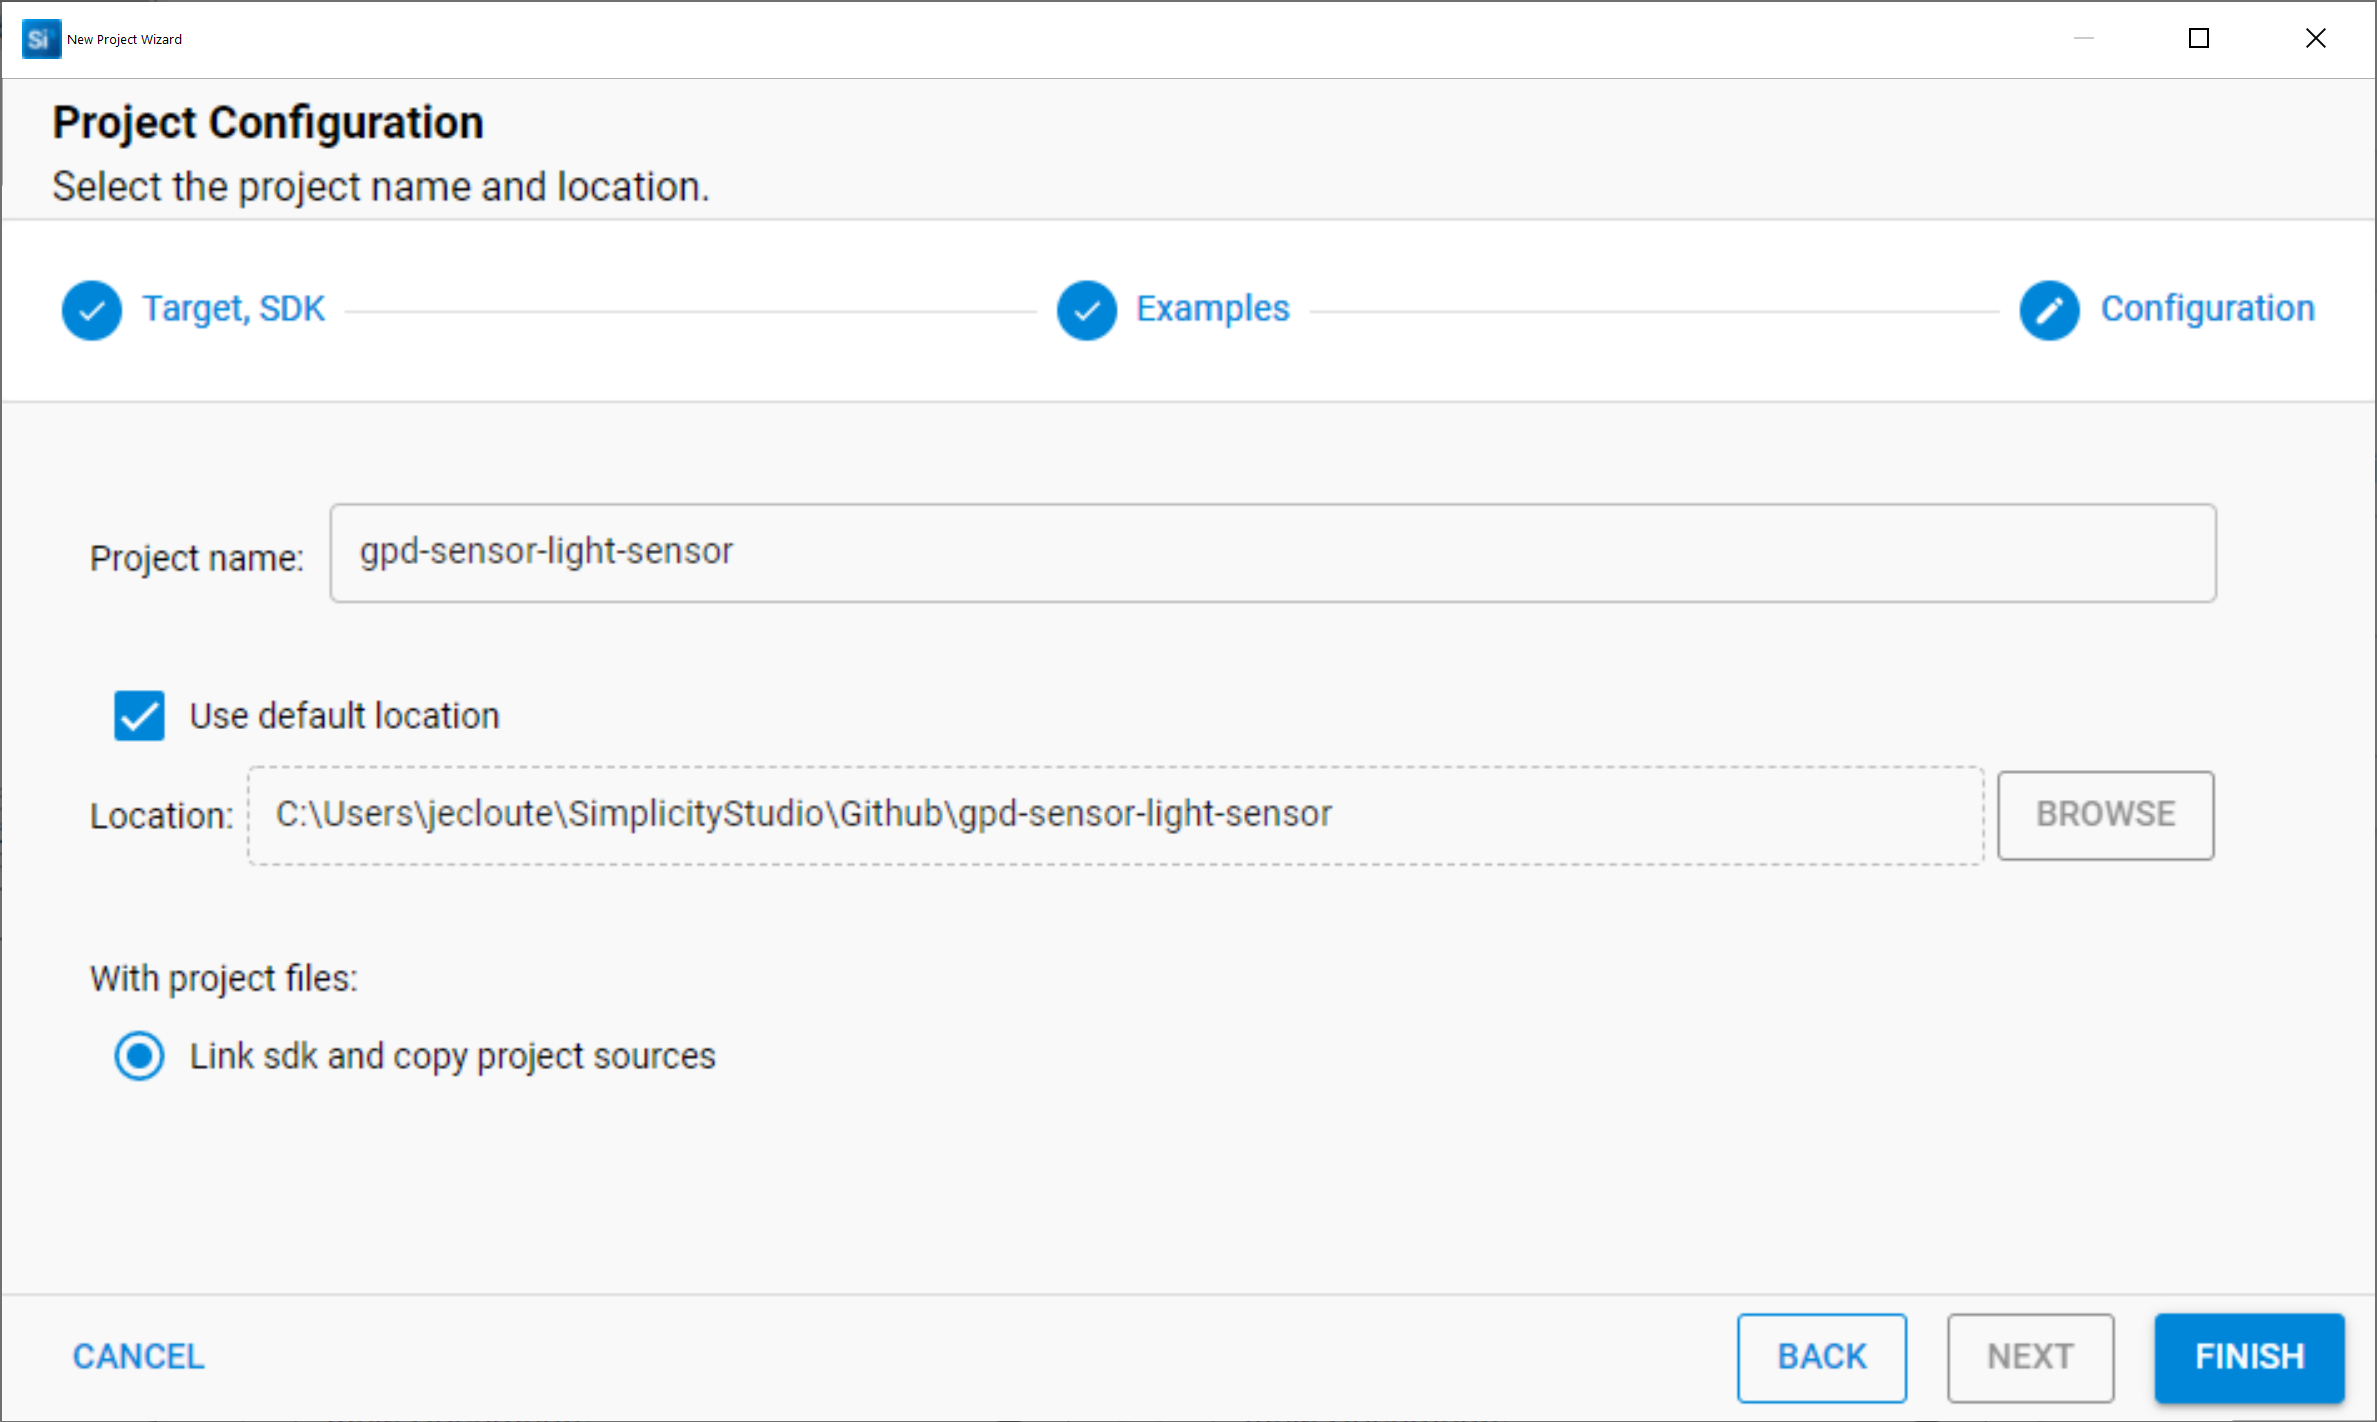
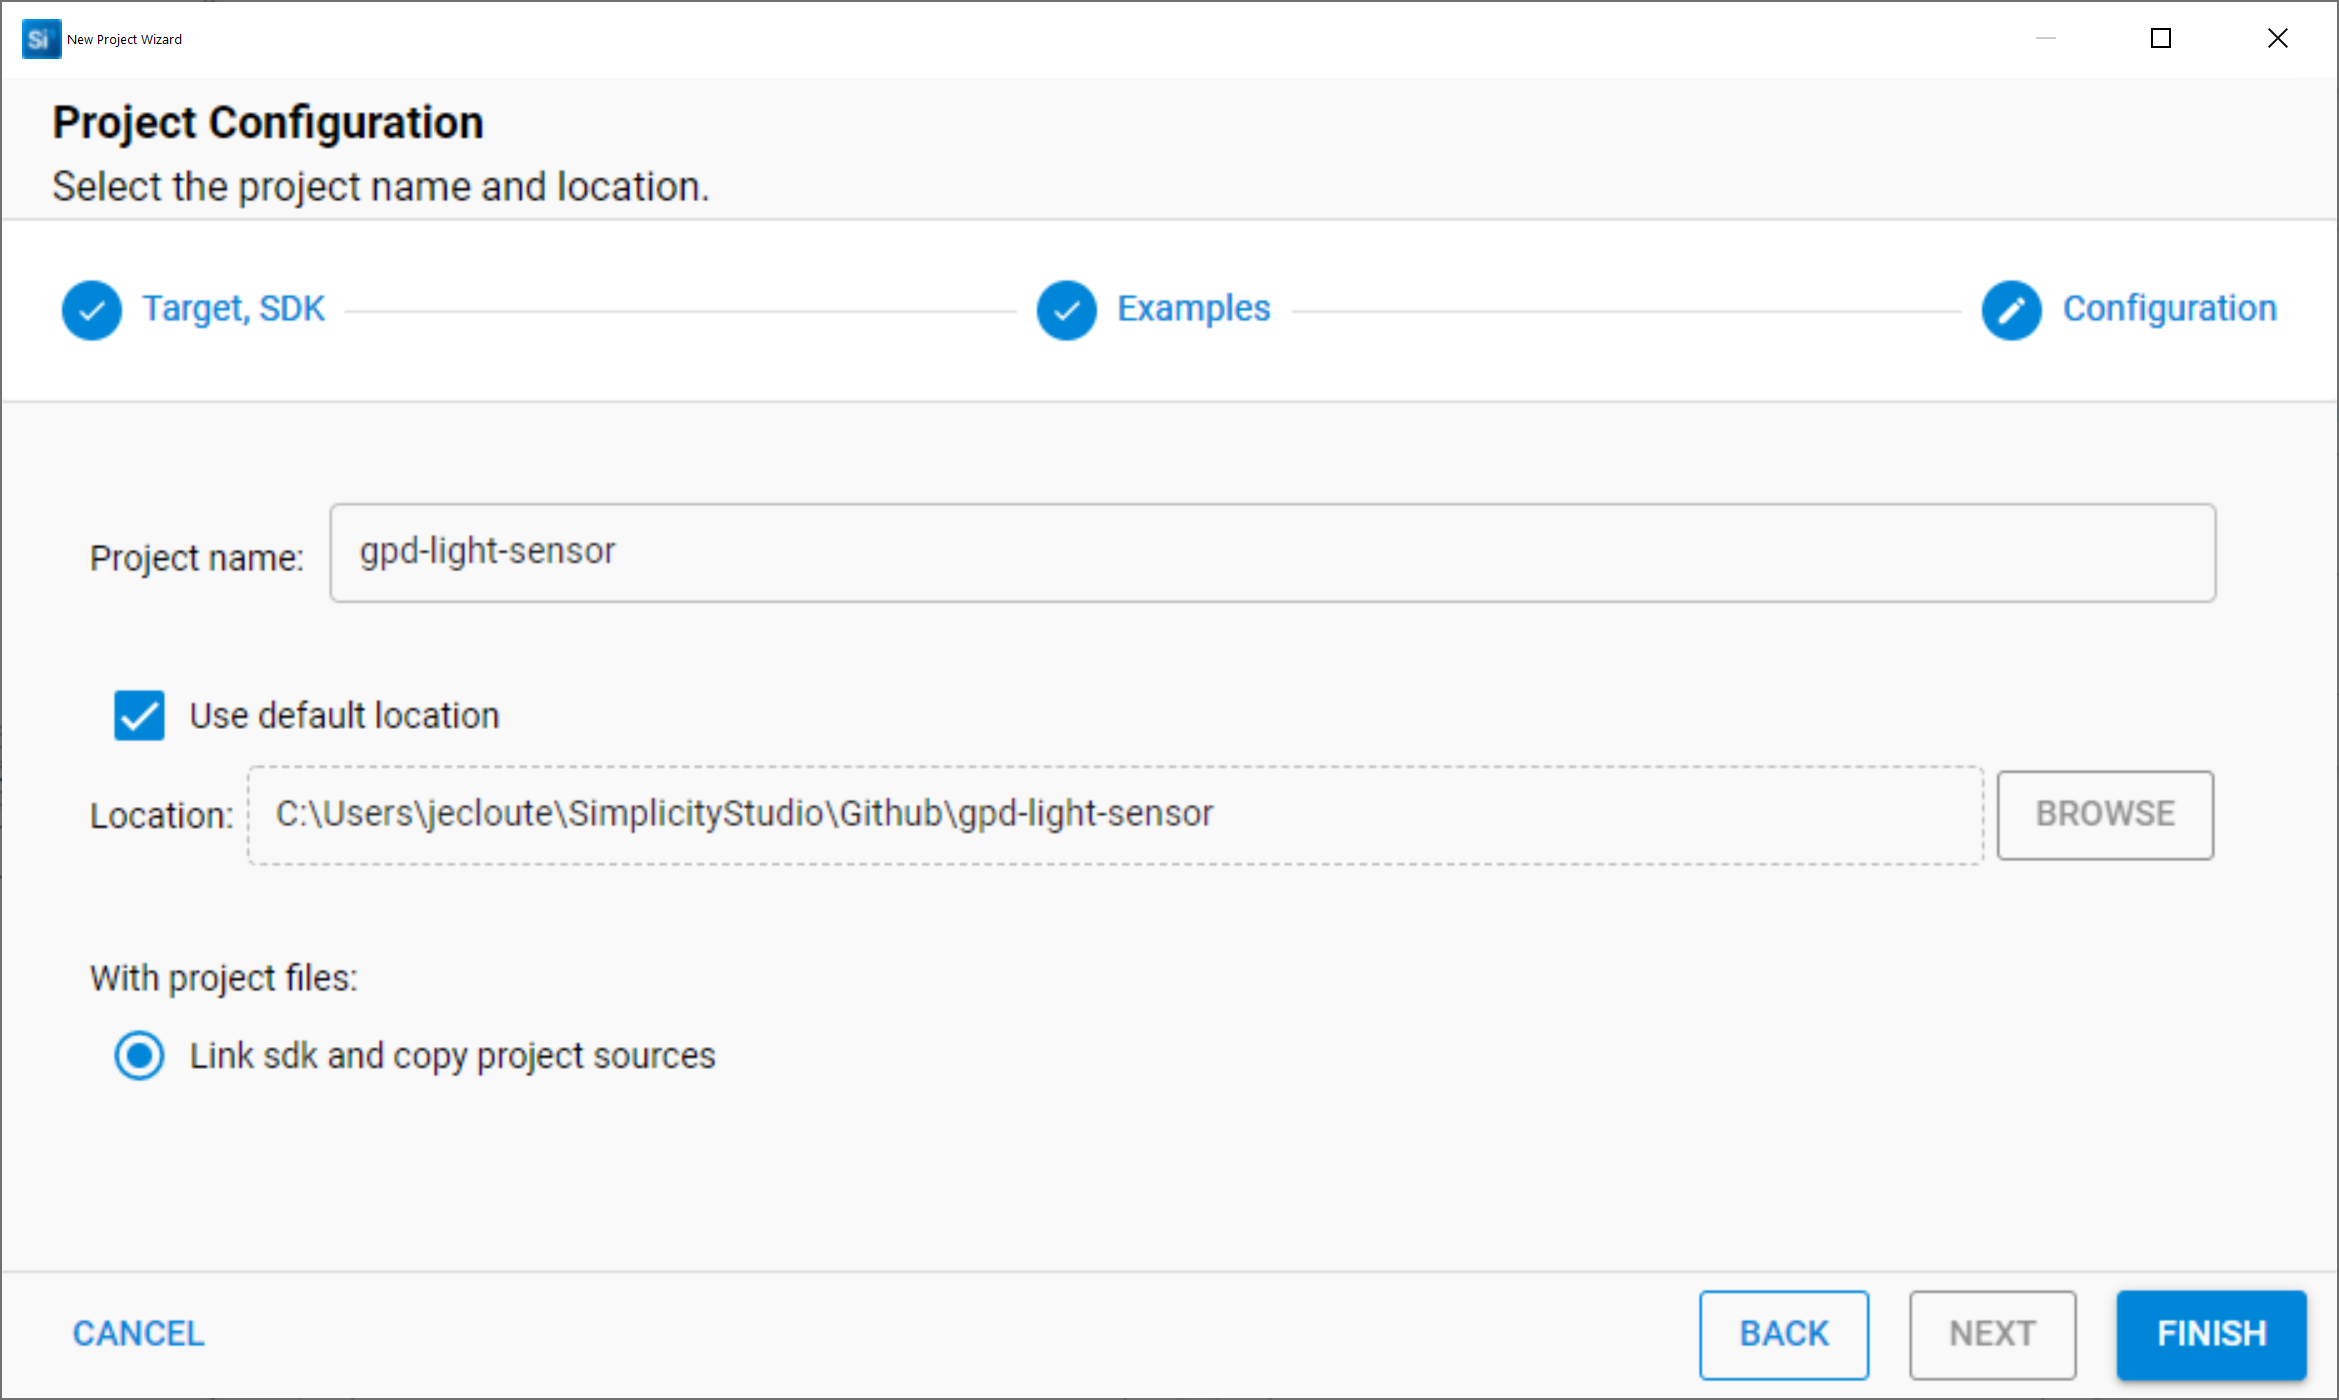
update

diff --git a/Zigbee_Green_Power/Applications/ZGP_light_sensor/project_creation.md b/Zigbee_Green_Power/Applications/ZGP_light_sensor/project_creation.md
@@ -4,8 +4,12 @@ sort: 1
 
 # Create and Configure the new project
 
+- click on "create New Project" button and select the Thunderboard Sense 2 Hardware as your target.
+
+<img src="images/gpsensor_002.png" alt="" width="500" class="center">
+
 -	Create a new Zigbee 3.0 project
--	Select "Green Power Sensor Device" Sample Application
+-	Select "Green Power Sensor Device" Sample Application and name it for example "gpd-light-sensor"
 
 <img src="images/gpsensor_00.png" alt="" width="500" class="center">
 <img src="images/gpsensor_001.png" alt="" width="500" class="center">
